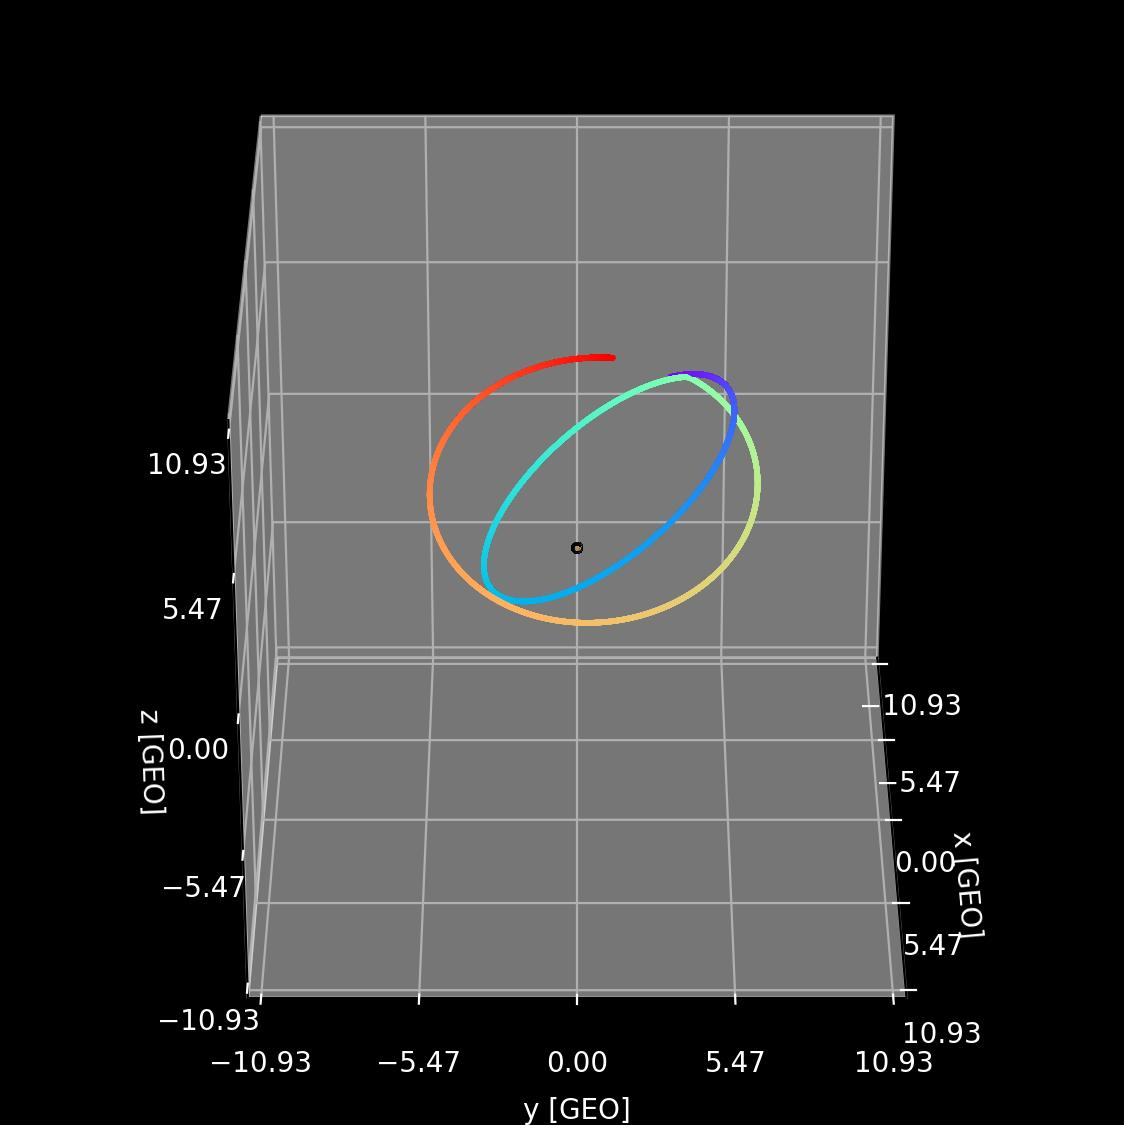
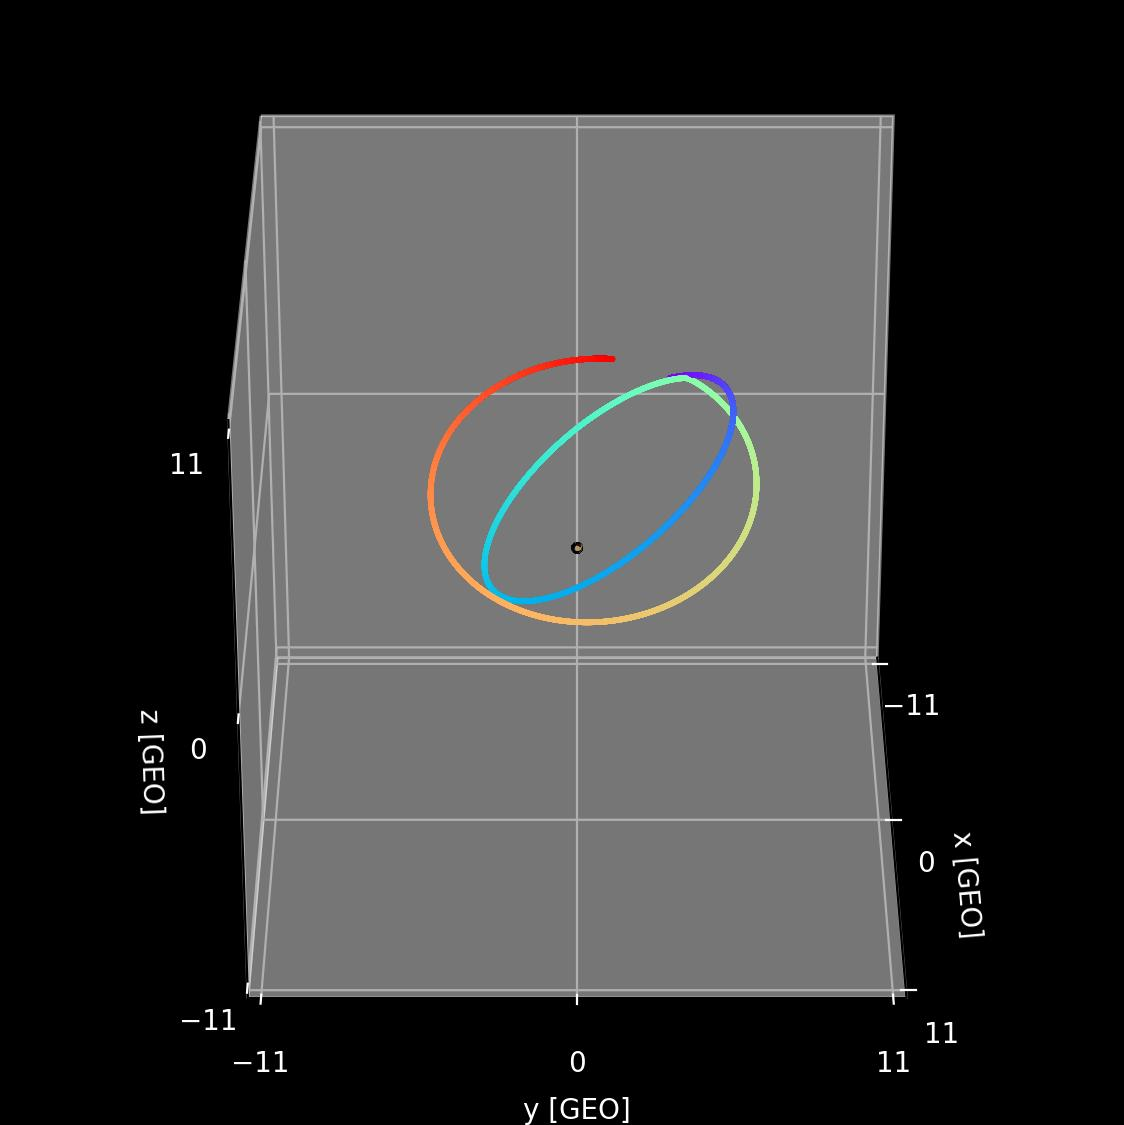
added integer tick labels to globe plot

diff --git a/yeager_utils/plots/globe_plot.py b/yeager_utils/plots/globe_plot.py
@@ -5,13 +5,13 @@ import numpy as np
 from typing import Tuple, Optional
 
 from ssapy.utils import find_file
-from .plotutils import make_black, save_plot
+from .plotutils import make_black, make_white, save_plot
 from ..constants import RGEO, EARTH_RADIUS
 
 
 def globe_plot(r: np.ndarray, t: np.ndarray, limits: Optional[float] = False, title: str = '',
                c='black', figsize: Tuple[int, int] = (7, 8), save_path: Optional[str] = False,
-               el: int = 30, az: int = 0, scale: float = 1) -> Tuple[plt.Figure, plt.Axes]:
+               el: int = 30, az: int = 0, scale: float = 1, fontsize=24) -> Tuple[plt.Figure, plt.Axes]:
     """
     Generate a 3D globe plot showing the position of points in Earth-centered
     coordinates. Optionally save the plot to a file.
@@ -71,28 +71,33 @@ def globe_plot(r: np.ndarray, t: np.ndarray, limits: Optional[float] = False, ti
         y_ticks = np.linspace(-limits, limits, 5)
         z_ticks = np.linspace(-limits, limits, 5)
     else:
-        int_limit = int(np.ceil(limits))  # Round up to ensure coverage
-        x_ticks = np.arange(-int_limit, int_limit + 1, 1)  # Integer ticks
-        y_ticks = np.arange(-int_limit, int_limit + 1, 1)
-        z_ticks = np.arange(-int_limit, int_limit + 1, 1)
+        int_limit = int(np.ceil(limits))
+        x_ticks = [-int_limit, 0, int_limit]
+        y_ticks = [-int_limit, 0, int_limit]
+        z_ticks = [-int_limit, 0, int_limit]
 
     ax.set_xticks(x_ticks)
     ax.set_yticks(y_ticks)
     ax.set_zticks(z_ticks)
 
     # Set axis labels with white color
-    ax.set_xlabel('x [GEO]', color=textcolor)
-    ax.set_ylabel('y [GEO]', color=textcolor)
-    ax.set_zlabel('z [GEO]', color=textcolor)
+    ax.set_xlabel('x [GEO]', color=textcolor, fontsize=fontsize)
+    ax.set_ylabel('y [GEO]', color=textcolor, fontsize=fontsize)
+    ax.set_zlabel('z [GEO]', color=textcolor, fontsize=fontsize)
+    if title:
+        ax.set_title(title, color=textcolor, fontsize=fontsize)
 
     # Set tick label colors to white
-    ax.tick_params(axis='x', colors=textcolor)
-    ax.tick_params(axis='y', colors=textcolor)
-    ax.tick_params(axis='z', colors=textcolor)
+    ax.tick_params(axis='x', colors=textcolor, labelsize=fontsize)
+    ax.tick_params(axis='y', colors=textcolor, labelsize=fontsize)
+    ax.tick_params(axis='z', colors=textcolor, labelsize=fontsize)
     ax.set_aspect('equal')
 
     # Apply black background function (assuming `make_black` function exists)
-    fig, ax = make_black(fig, ax)
+    if c in ('black', 'b'):
+        fig, ax = make_black(fig, ax)
+    elif c in ('white', 'w'):
+        fig, ax = make_white(fig, ax)
 
     # Save the plot if save_path is provided
     if save_path:
